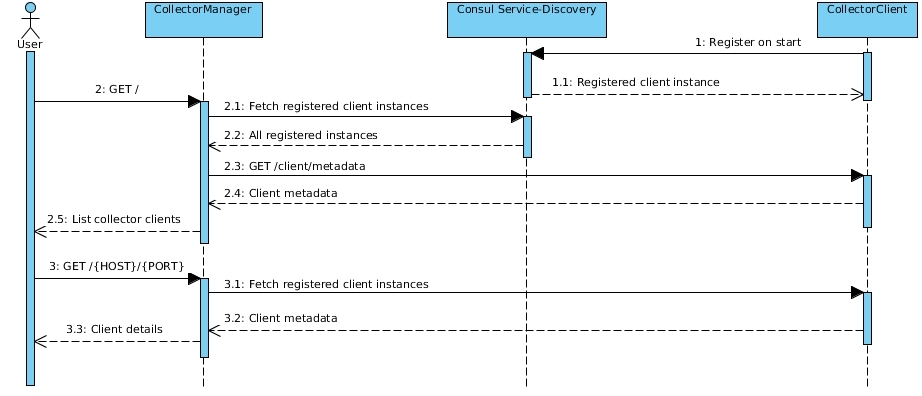
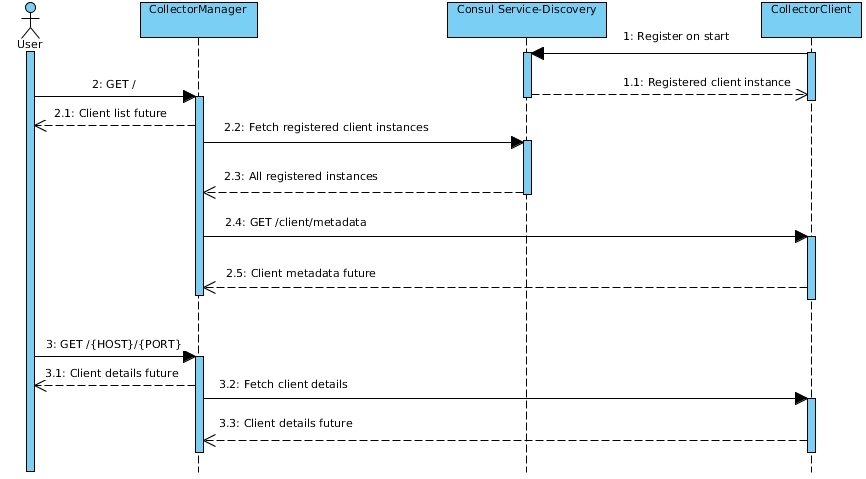
sequence for scheduling

diff --git a/md/sequences.md b/md/sequences.md
@@ -3,3 +3,7 @@
 ##### Client discovery
 
 ![sequence-discovery](../thesis/uml/sequence-discovery.jpg)
+
+##### Client scheduling
+
+![sequence-discovery](../thesis/uml/sequence-scheduling.jpg)
